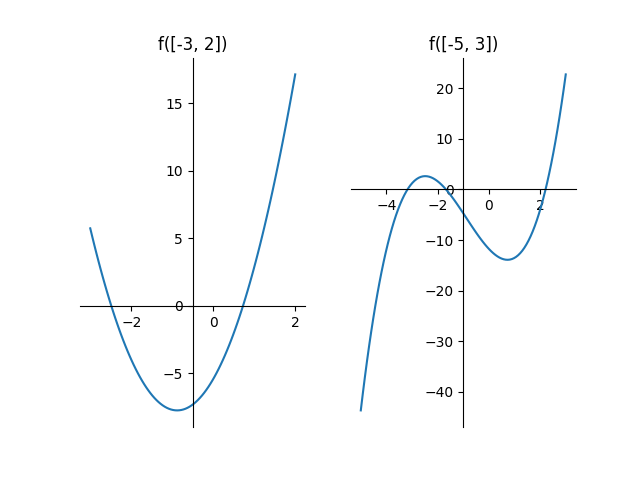
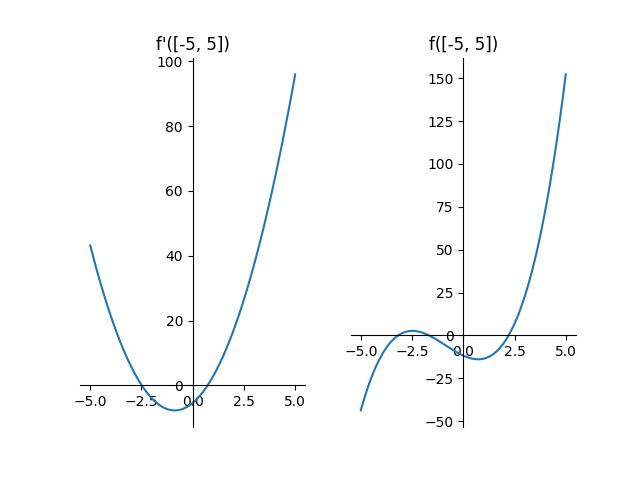
[release] README genetation with debug table

diff --git a/eq/solve/method/half.py b/eq/solve/method/half.py
@@ -1,0 +1,49 @@
+from typing import Callable, List
+from solve.method.interval import Interval
+
+T = float
+
+def is_interesting(
+    interval: Interval, 
+    f: Callable[[T], T]
+) -> bool:
+    return f(interval.left) * f(interval.right) < 0
+
+
+def root(
+    f: Callable[[T], T], 
+    interval: Interval,
+    eps: T,
+    log: Callable[[List[object]], None] = lambda s: None
+) -> T:
+    assert is_interesting(interval, f)
+    log(
+        'i', 
+        'a', 
+        'b', 
+        'x', 
+        'f(a)', 
+        'f(b)', 
+        'f(x)', 
+        'b - a'
+    )
+    log(
+        *['---' for i in range(8)]
+    )
+    i = 0
+    while eps < interval.length:
+        i += 1
+        log(
+            i,
+            "%.2f" % round(interval.left, 2),
+            "%.2f" % round(interval.right, 2),
+            "%.2f" % round(interval.middle, 2),
+            "%.2f" % round(f(interval.left), 2),
+            "%.2f" % round(f(interval.right), 2),
+            "%.2f" % round(f(interval.middle), 2),
+            "%.2f" % round(interval.length, 2)
+        )
+        interval = interval.left_half \
+            if is_interesting(interval.left_half, f) \
+            else interval.right_half
+    return interval.middle

diff --git a/eq/example.py b/eq/example.py
@@ -1,0 +1,32 @@
+from f.parsing import parse
+from plot import plot
+from solve.method.interval import Interval
+from solve.method import half
+
+if __name__ == '__main__':
+    f = 'x ^ 3 + 2.64 * x ^ 2 - 5.41 * x - 11.76'
+    f = parse(f)
+
+    plot('res/plot.png', f, Interval(-5, 5))
+
+    intervals = [Interval(l, r) for l, r in [
+        (-4, -2.5), (-2.5, 0), (1, 3)
+    ]]
+    methods = [half.root, half.root, half.root]
+    for i in range(len(intervals)):
+        interval = intervals[i]
+        method = methods[i]
+        with open(f'res/0{i + 2}-table.part', 'w') as file:
+            print(f'Таблица трассировки {i + 1}', file=file)
+            print(method(
+                f, interval, 0.01, 
+                lambda *args: print(
+                    '',
+                    *args, 
+                    sep = ' | ',
+                    end='|\n',
+                    file = file,
+                )
+            ))
+            print(file=file)
+

diff --git a/eq/plot.py b/eq/plot.py
@@ -1,9 +1,13 @@
 import numpy as np
 import matplotlib.pyplot as plt
-from f.parsing import parse
+from f.core import Function
+from solve.method.interval import Interval
 
-if __name__ == '__main__':
-    f = parse('x ^ 3 + 2.64 * x ^ 2 - 5.41 * x - 11.76')
+def plot(
+    filepath: str, 
+    f: Function, 
+    interval: Interval
+) -> None:
     df = f.diff()
 
     figure, axis = plt.subplots(1, 2)
@@ -16,14 +20,13 @@ if __name__ == '__main__':
         axis[i].xaxis.set_ticks_position('bottom')
         axis[i].yaxis.set_ticks_position('left')
 
-    l, r, n = -3, 2, 100
-    x = np.linspace(l, r, n)
+    l, r = interval.left, interval.right
+    x = np.linspace(l, r, 100)
+    
     axis[0].plot(x, df(x))
-    axis[0].set_title(f'f([{l}, {r}])')
+    axis[0].set_title(f'f\'([{l}, {r}])')
 
-    l, r, n = -5, 3, 100
-    x = np.linspace(l, r, n)
     axis[1].plot(x, f(x))
     axis[1].set_title(f'f([{l}, {r}])')
 
-    plt.savefig('res/plot.png')
+    plt.savefig(filepath)

diff --git a/eq/solve/method/interval.py b/eq/solve/method/interval.py
@@ -1,0 +1,23 @@
+from typing import NamedTuple
+
+T = float
+
+class Interval(NamedTuple):
+    left: T
+    right: T
+
+    @property
+    def length(self) -> T:
+        return self.right - self.left
+    
+    @property
+    def middle(self) -> T:
+        return (self.left + self.right) / 2
+    
+    @property
+    def left_half(self) -> 'Interval':
+        return Interval(self.left, self.middle)
+
+    @property
+    def right_half(self) -> 'Interval':
+        return Interval(self.middle, self.right)

diff --git a/eq/solve/method/separability.py b/eq/solve/method/separability.py
@@ -1,0 +1,20 @@
+from typing import Callable, Iterable, List
+
+from numpy import sign
+from interval import Interval
+
+T = float
+
+def find_root_intervals(
+    f: Callable[[T], T],
+    interval: Interval,
+    window: int
+) -> Iterable[Interval]:
+    assert window > 0
+    while True:
+        left = interval.left
+        right = left + window
+        if interval.right < right:
+            break
+        if f(left) * f(right) < 0:
+            yield Interval(left, right)

diff --git a/eq/test.py b/eq/test.py
@@ -1,0 +1,3 @@
+
+if __name__ == '__main__':
+    pass
